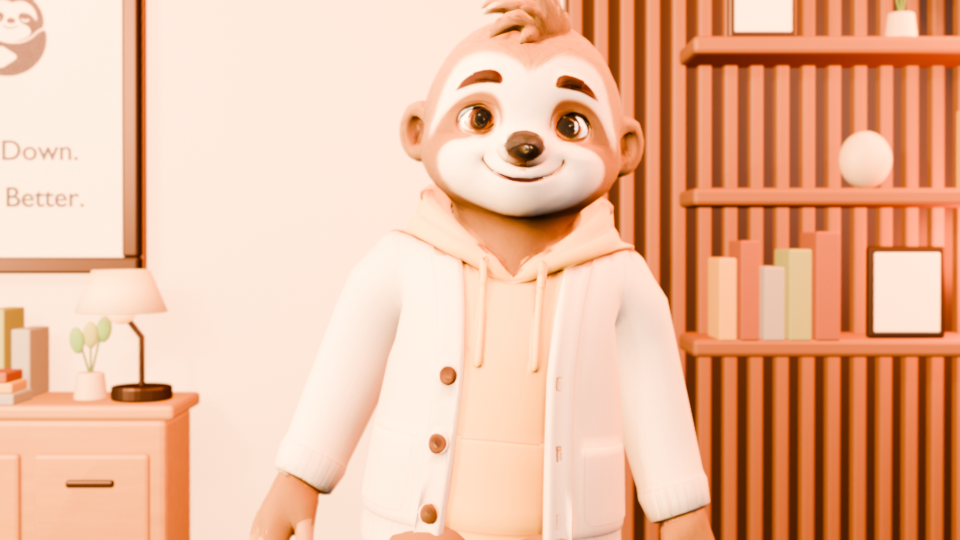
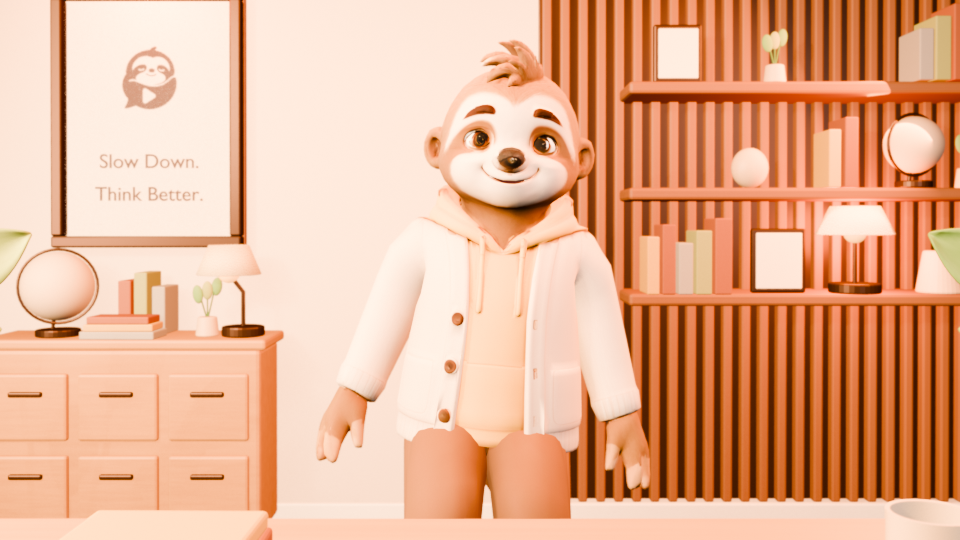
fix: keep warm studio gestures in safe frame

diff --git a/mcp/ip_avatar_3d/blender_renderer.py b/mcp/ip_avatar_3d/blender_renderer.py
@@ -42,6 +42,8 @@ LIGHTING_MULTIPLIERS = {
 SOLE_BAND_HEIGHT_M = 0.005
 TARGET_SOLE_CLEARANCE_M = 0.0015
 MIN_MEDIUM_FRAME_POINTS = 128
+MEDIUM_FRAME_SAFE_MARGIN = 0.04
+TARGET_MEDIUM_VERTICAL_SPAN = 0.84
 
 
 def read_input() -> dict:
@@ -1882,26 +1884,77 @@ def sample_character_semantic_regions(
     return points
 
 
-def _medium_frame_counts(
+def _medium_frame_metrics(
     camera: bpy.types.Object,
     frame_points: dict[int, dict[str, list[Vector]]],
-) -> dict[int, dict[str, int]]:
+) -> dict[int, dict[str, dict[str, Any]]]:
     scene = bpy.context.scene
-    return {
-        frame: {
-            role: sum(
+    metrics: dict[int, dict[str, dict[str, Any]]] = {}
+    for frame, regions in frame_points.items():
+        metrics[frame] = {}
+        for role, points in regions.items():
+            projected = [world_to_camera_view(scene, camera, point) for point in points]
+            inside_count = sum(
                 1
-                for point in points
-                if (
-                    (projected := world_to_camera_view(scene, camera, point)).z > 0
-                    and 0 <= projected.x <= 1
-                    and 0 <= projected.y <= 1
-                )
+                for point in projected
+                if point.z > 0 and 0 <= point.x <= 1 and 0 <= point.y <= 1
             )
-            for role, points in regions.items()
-        }
-        for frame, regions in frame_points.items()
-    }
+            metrics[frame][role] = {
+                "insideCount": inside_count,
+                "frameBounds": {
+                    "min": [
+                        min(float(point.x) for point in projected),
+                        min(float(point.y) for point in projected),
+                    ],
+                    "max": [
+                        max(float(point.x) for point in projected),
+                        max(float(point.y) for point in projected),
+                    ],
+                },
+            }
+    return metrics
+
+
+def _medium_frame_candidate_is_safe(
+    metrics: dict[int, dict[str, dict[str, Any]]],
+) -> bool:
+    for regions in metrics.values():
+        for region in regions.values():
+            if int(region["insideCount"]) < MIN_MEDIUM_FRAME_POINTS:
+                return False
+            bounds = region["frameBounds"]
+            if any(float(value) < MEDIUM_FRAME_SAFE_MARGIN for value in bounds["min"]):
+                return False
+            if any(float(value) > 1.0 - MEDIUM_FRAME_SAFE_MARGIN for value in bounds["max"]):
+                return False
+    return True
+
+
+def _medium_frame_composition_score(
+    metrics: dict[int, dict[str, dict[str, Any]]],
+    lens: float,
+    shift_delta: float,
+    authored_lens: float,
+) -> tuple[float, float, float, float]:
+    bounds = [
+        region["frameBounds"]
+        for regions in metrics.values()
+        for region in regions.values()
+    ]
+    minimum_x = min(float(item["min"][0]) for item in bounds)
+    minimum_y = min(float(item["min"][1]) for item in bounds)
+    maximum_x = max(float(item["max"][0]) for item in bounds)
+    maximum_y = max(float(item["max"][1]) for item in bounds)
+    vertical_span = maximum_y - minimum_y
+    center_error = abs((minimum_x + maximum_x) / 2.0 - 0.5) + abs(
+        (minimum_y + maximum_y) / 2.0 - 0.5
+    )
+    return (
+        abs(vertical_span - TARGET_MEDIUM_VERTICAL_SPAN),
+        center_error,
+        abs(authored_lens - lens),
+        abs(shift_delta),
+    )
 
 
 def calibrate_mode_medium_camera(
@@ -1926,34 +1979,52 @@ def calibrate_mode_medium_camera(
         )
 
     lens_candidates = [
-        authored_lens - 2.0 * index
-        for index in range(int(max(0.0, authored_lens - 32.0) // 2.0) + 1)
+        authored_lens - float(index)
+        for index in range(int(max(0.0, authored_lens - 24.0)) + 1)
     ]
     shift_deltas = [0.0]
     for step in range(1, 31):
         shift_deltas.extend((-0.01 * step, 0.01 * step))
-    selected_counts: dict[int, dict[str, int]] | None = None
+    safe_candidates: list[
+        tuple[
+            tuple[float, float, float, float],
+            float,
+            float,
+            dict[int, dict[str, dict[str, Any]]],
+        ]
+    ] = []
     for lens in lens_candidates:
-        camera.data.lens = max(32.0, lens)
+        camera.data.lens = max(24.0, lens)
         for delta in shift_deltas:
             camera.data.shift_y = authored_shift_y + delta
-            counts = _medium_frame_counts(camera, frame_points)
-            if all(
-                count >= MIN_MEDIUM_FRAME_POINTS
-                for frame in counts.values()
-                for count in frame.values()
-            ):
-                selected_counts = counts
-                break
-        if selected_counts is not None:
-            break
-    if selected_counts is None:
+            metrics = _medium_frame_metrics(camera, frame_points)
+            if _medium_frame_candidate_is_safe(metrics):
+                safe_candidates.append(
+                    (
+                        _medium_frame_composition_score(
+                            metrics,
+                            float(camera.data.lens),
+                            delta,
+                            authored_lens,
+                        ),
+                        float(camera.data.lens),
+                        float(camera.data.shift_y),
+                        metrics,
+                    )
+                )
+    if not safe_candidates:
         camera.data.lens = authored_lens
         camera.data.shift_y = authored_shift_y
         raise RuntimeError(
-            f"{camera.name} cannot frame head and both hands with "
-            f"{MIN_MEDIUM_FRAME_POINTS} points per sampled frame"
+            f"{camera.name} cannot keep complete head and both hands inside "
+            f"the {MEDIUM_FRAME_SAFE_MARGIN:.0%} safe frame"
         )
+    _, selected_lens, selected_shift_y, selected_metrics = min(
+        safe_candidates,
+        key=lambda candidate: candidate[0],
+    )
+    camera.data.lens = selected_lens
+    camera.data.shift_y = selected_shift_y
     bpy.context.scene.frame_set(frames[0])
     bpy.context.view_layer.update()
     return {
@@ -1963,9 +2034,10 @@ def calibrate_mode_medium_camera(
         "lens": float(camera.data.lens),
         "shiftY": float(camera.data.shift_y),
         "minimumPointsPerRegion": MIN_MEDIUM_FRAME_POINTS,
+        "safeMargin": MEDIUM_FRAME_SAFE_MARGIN,
         "frames": [
-            {"frame": frame, **counts}
-            for frame, counts in sorted(selected_counts.items())
+            {"frame": frame, **metrics}
+            for frame, metrics in sorted(selected_metrics.items())
         ],
     }
 

diff --git a/mcp/ip_avatar_3d/test_blender_scene_contract.py b/mcp/ip_avatar_3d/test_blender_scene_contract.py
@@ -433,7 +433,13 @@ def test_validation_success_fails_each_required_geometry_gate() -> None:
             {
                 "frame": frame,
                 "cameraVisibility": {
-                    role: {"insideCount": 128}
+                    role: {
+                        "insideCount": 128,
+                        "frameBounds": {
+                            "min": [0.04, 0.04],
+                            "max": [0.96, 0.96],
+                        },
+                    }
                     for role in ("head", "leftHand", "rightHand")
                 },
             }
@@ -475,9 +481,11 @@ def test_validation_success_fails_each_required_geometry_gate() -> None:
             {
                 "frame": 15,
                 "cameraVisibility": {
-                    "head": {"insideCount": 128},
-                    "leftHand": {"insideCount": 127},
-                    "rightHand": {"insideCount": 128},
+                    role: {
+                        **metrics,
+                        "insideCount": 127 if role == "leftHand" else 128,
+                    }
+                    for role, metrics in passing["frames"][1]["cameraVisibility"].items()
                 },
             },
             *passing["frames"][2:],
@@ -486,6 +494,44 @@ def test_validation_success_fails_each_required_geometry_gate() -> None:
     failed = warm_character_validator.finalize_mode_report(per_frame)
     assert failed["success"] is False
     assert any("frame 15 leftHand" in reason for reason in failed["failureReasons"])
+
+    unsafe_bounds = {
+        **passing,
+        "frames": [
+            *passing["frames"][:1],
+            {
+                "frame": 15,
+                "cameraVisibility": {
+                    "head": {
+                        "insideCount": 128,
+                        "frameBounds": {
+                            "min": [0.04, 0.04],
+                            "max": [0.96, 0.961],
+                        },
+                    },
+                    "leftHand": {
+                        "insideCount": 128,
+                        "frameBounds": {
+                            "min": [0.04, 0.039],
+                            "max": [0.96, 0.96],
+                        },
+                    },
+                    "rightHand": {
+                        "insideCount": 128,
+                        "frameBounds": {
+                            "min": [0.04, 0.04],
+                            "max": [0.96, 0.96],
+                        },
+                    },
+                },
+            },
+            *passing["frames"][2:],
+        ],
+    }
+    failed = warm_character_validator.finalize_mode_report(unsafe_bounds)
+    assert failed["success"] is False
+    assert any("frame 15 head" in reason and "maxY" in reason for reason in failed["failureReasons"])
+    assert any("frame 15 leftHand" in reason and "minY" in reason for reason in failed["failureReasons"])
 
 
 def test_scene_marker_controls_character_height() -> None:
@@ -588,7 +634,11 @@ def test_real_warm_studio_character_validation_passes_both_modes() -> None:
             ), report
         for frame in report["frames"]:
             for role in ("head", "leftHand", "rightHand"):
-                assert frame["cameraVisibility"][role]["insideCount"] >= 128, frame
+                visibility = frame["cameraVisibility"][role]
+                assert visibility["insideCount"] >= 128, frame
+                bounds = visibility["frameBounds"]
+                assert all(value >= 0.04 for value in bounds["min"]), frame
+                assert all(value <= 0.96 for value in bounds["max"]), frame
         assert report["success"] is True, report
 
 

diff --git a/mcp/ip_avatar_3d/validate_warm_studio_character.py b/mcp/ip_avatar_3d/validate_warm_studio_character.py
@@ -29,6 +29,7 @@ SOLE_BAND_HEIGHT_M = 0.005
 DEFORMATION_SPIKE_RATIO = 3.0
 DEFORMATION_SPIKE_DELTA_M = 0.02
 MIN_MEDIUM_FRAME_POINTS = 128
+MEDIUM_FRAME_SAFE_MARGIN = 0.04
 MAX_FOOT_CLEARANCE_M = 0.0035
 
 
@@ -249,12 +250,27 @@ def finalize_mode_report(report: dict[str, Any]) -> dict[str, Any]:
     for frame in frames:
         visibility = frame["cameraVisibility"]
         for role in ("head", "leftHand", "rightHand"):
-            count = int(visibility[role]["insideCount"])
+            region = visibility[role]
+            count = int(region["insideCount"])
             if count < MIN_MEDIUM_FRAME_POINTS:
                 reasons.append(
                     f"frame {frame['frame']} {role} has {count} geometry points "
                     f"inside medium frame; requires {MIN_MEDIUM_FRAME_POINTS}"
                 )
+            bounds = region["frameBounds"]
+            for axis, index in (("X", 0), ("Y", 1)):
+                minimum = float(bounds["min"][index])
+                maximum = float(bounds["max"][index])
+                if minimum < MEDIUM_FRAME_SAFE_MARGIN:
+                    reasons.append(
+                        f"frame {frame['frame']} {role} min{axis}={minimum:.6f} "
+                        f"is below {MEDIUM_FRAME_SAFE_MARGIN:.6f}"
+                    )
+                if maximum > 1.0 - MEDIUM_FRAME_SAFE_MARGIN:
+                    reasons.append(
+                        f"frame {frame['frame']} {role} max{axis}={maximum:.6f} "
+                        f"exceeds {1.0 - MEDIUM_FRAME_SAFE_MARGIN:.6f}"
+                    )
     report["failureReasons"] = reasons
     report["success"] = not reasons
     return report
